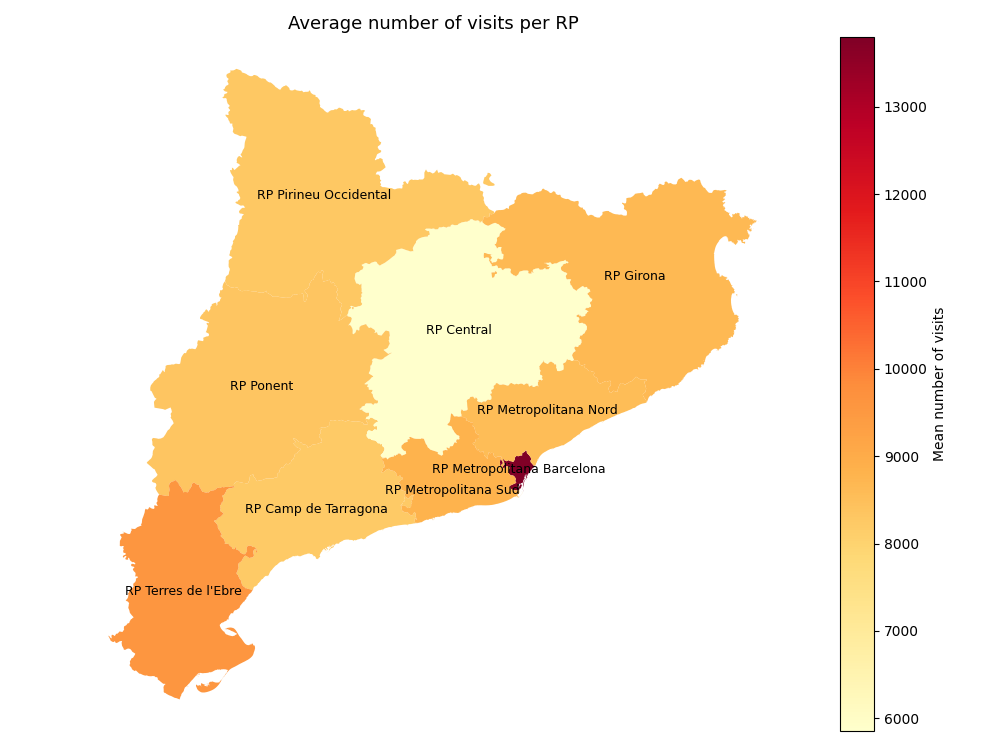
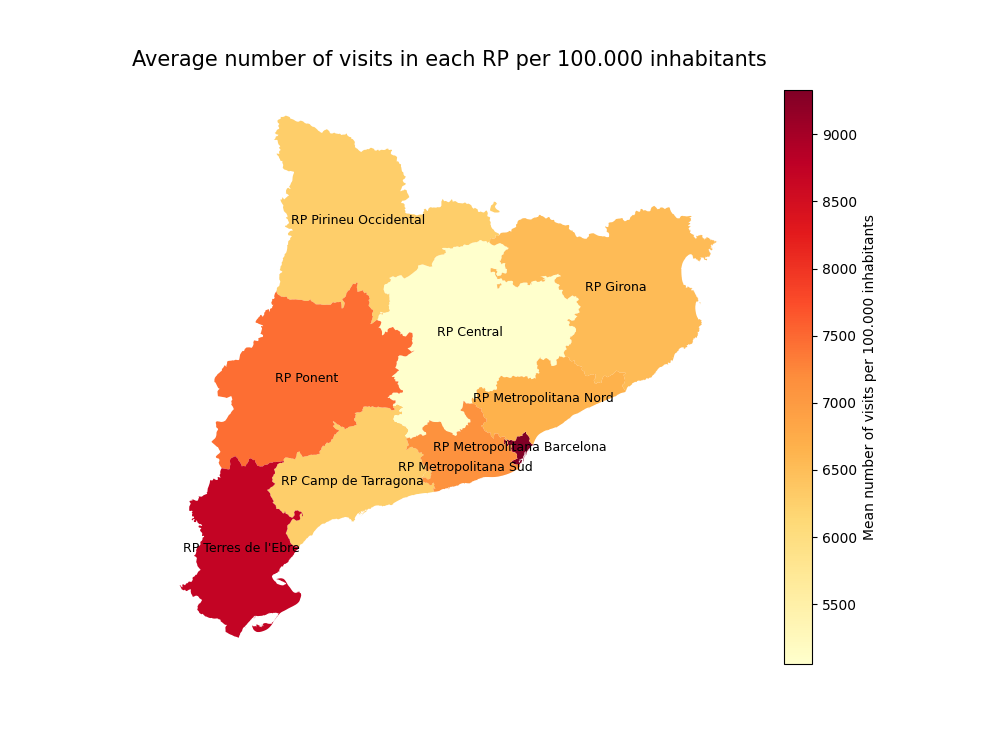
Updated common figures

Changed region(s): [[0.093, 0.0, 0.961, 0.9866], [0.558, 0.0, 0.589, 0.0308]]

diff --git a/Nil/code_data.py b/Nil/code_data.py
@@ -100,7 +100,18 @@ mes_visites.plot(kind='bar', title='ABP '+ABP, xticks=(), xlabel='Year', ylabel=
 # We want to plot the number of visits in every RP from 2011 to 2021
 
 # We create a DataFrame with 2 columns with the RP and number of visits
-visites_RP = data_df[['regi_policial_rp','nombre_de_visites']].copy()
+#visites_RP = data_df[['regi_policial_rp','nombre_de_visites']].copy()
+
+
+
+
+new_df = data_df[['regi_policial_rp','nombre_de_visites','any']].copy()
+
+new_df = new_df[new_df['any'] > '2019']
+
+visites_RP = new_df.copy()
+
+
 
 # Write all the RPs in a list
 list_RP = [i for i in (visites_RP['regi_policial_rp'].value_counts()).index]
@@ -111,7 +122,8 @@ visites_RP = visites_RP.set_index('regi_policial_rp')
 for RP in list_RP:
     specific_RP = visites_RP.loc[RP]
     # Compute the mean for all RPs, round the number and append into the list
-    mean_visites_RP.append(np.round(sum(specific_RP.nombre_de_visites)/number_of_years, decimals=0))
+    #mean_visites_RP.append(np.round(sum(specific_RP.nombre_de_visites)/number_of_years, decimals=0))
+    mean_visites_RP.append(np.round(sum(specific_RP.nombre_de_visites)/2, decimals=0))
 
 mean_visites_RP = [int(i) for i in mean_visites_RP] #transform the mean visits into integers
 
@@ -216,7 +228,7 @@ map_regi = map_regi.dissolve(by = 'RP')
 map_regi['Mean number of visits'] = 0 # we create a new blank column
 map_regi['Mean waiting time'] = 0
 
-
+#%%
 # we write our data into this map_regi geopandas dataframe
 for RP in list_RP:
     map_regi.loc[RP,'Mean number of visits'] = mean_visites_RP.loc[RP,'Mean number of visits']
@@ -353,16 +365,16 @@ map_regi.plot(ax = ax, column='Mean number of visits 100000', cmap=cmap)
 f.savefig('cat_visits_100000.png')
 plt.show()
 
-#%%
+#%% PLOT PRESENTATION
 
 f, ax = plt.subplots(figsize=(10,10))
 map_regi.plot(column='Mean number of visits 100000', 
               ax=ax, 
               legend=True, 
               cmap="YlOrRd",
-              legend_kwds={'label': "Mean number of visits"})
+              legend_kwds={'label': "Mean number of visits per 100.000 inhabitants"})
 
-plt.title('Average number of visits per RP', fontsize=13)
+plt.title('Average number of visits in each RP per 100.000 inhabitants', fontsize=15)
 
 map_regi = map_regi.reset_index()
 
@@ -373,7 +385,6 @@ for index, row in map_regi.iterrows():
     plt.annotate(row['RP_new'], xy=xy[0], xytext=xytext[0], horizontalalignment='center', verticalalignment='center', fontsize=9)
     plt.axis(False)
 
-plt.tight_layout()
 f.savefig('cat_visits_100000_yorld.png')
 plt.show()
 
